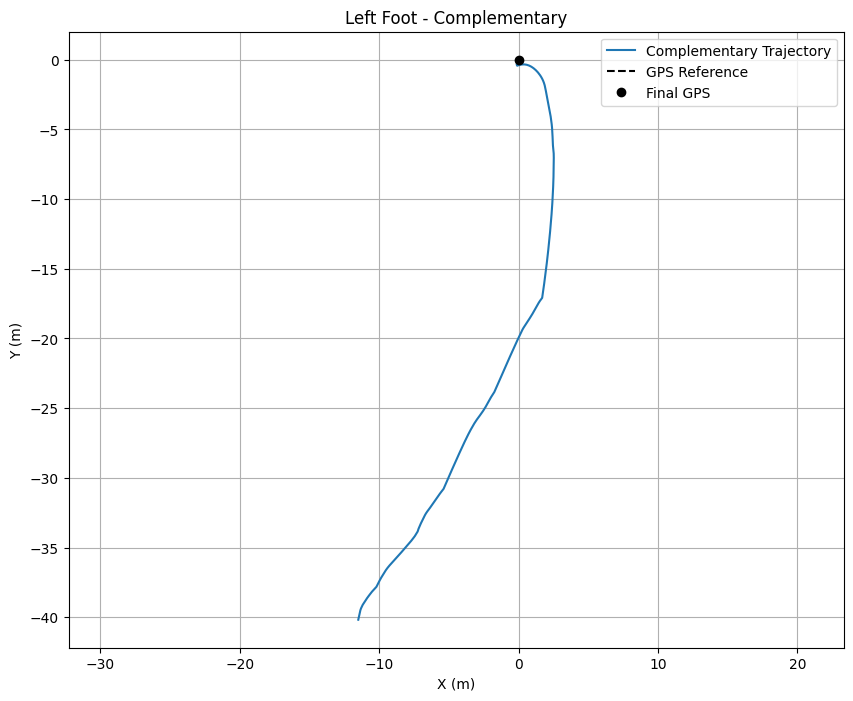
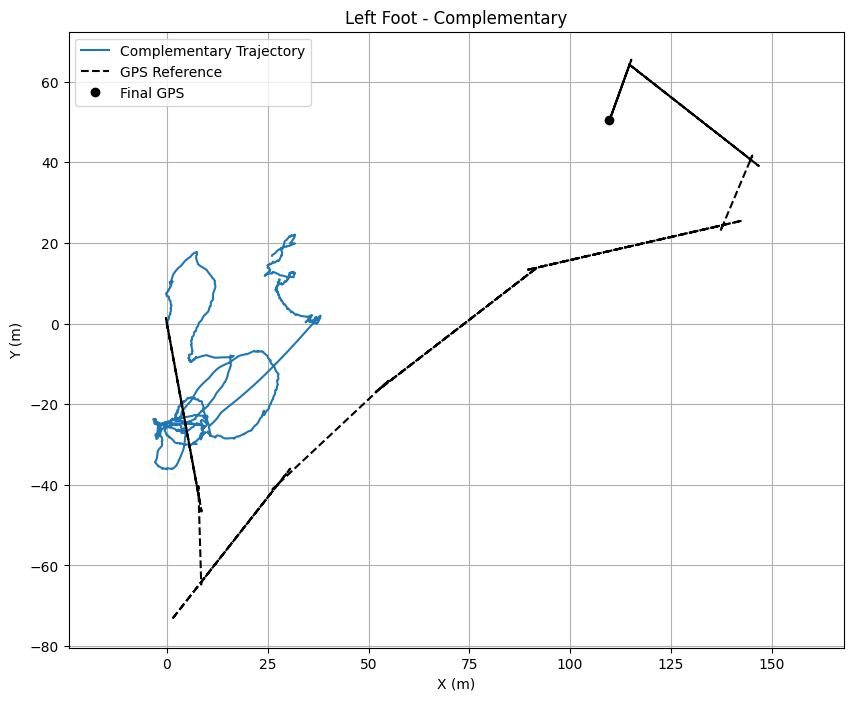
actualizacion_15/07

diff --git a/transform_data/stride_measurement_v1.py b/transform_data/stride_measurement_v1.py
@@ -56,9 +56,10 @@ def main():
         try:
             df = preprocessor.load_data(file_path)
             df_inter = preprocessor.resample_to_40hz(df)
+            df_inter["modG"] = np.sqrt(df_inter["Gx"]**2 + df_inter["Gy"]**2 + df_inter["Gz"]**2)
             time, sample_rate, gyr, acc, mag, df_gps = preprocessor.preprocess_data(df_inter)
-            triplets = dp.detect_gyro_triplet_peaks(df_inter, column='Gz')
-            dp.plot_peaks(df_inter, signal_column='Gz', peak_df=triplets)
+            triplets = dp.detect_gyro_triplet_peaks(df_inter, column='modG')
+            dp.plot_peaks(df_inter, signal_column='modG', peak_df=triplets)
     
 
         except Exception as e:

diff --git a/transform_data/class_transform_imu.py b/transform_data/class_transform_imu.py
@@ -116,7 +116,7 @@ class DataPreprocessor:
 
         gyr = df[['Gx', 'Gy', 'Gz']].to_numpy() * np.pi / 180
         acc = df[['Ax', 'Ay', 'Az']].to_numpy() 
-        mag = df[['Mx', 'My', 'Mz']].to_numpy() * 0.1
+        mag = df[['Mx', 'My', 'Mz']].to_numpy() * 100
         
         df_gps = df[['lat', 'lng', 'time']].dropna().reset_index(drop=True)
 
@@ -1180,6 +1180,5 @@ class DetectPeaks:
         plt.ylabel(signal_column)
         plt.title("Detected Peak Triplets")
         plt.tight_layout()
-        plt.show()
 
     
